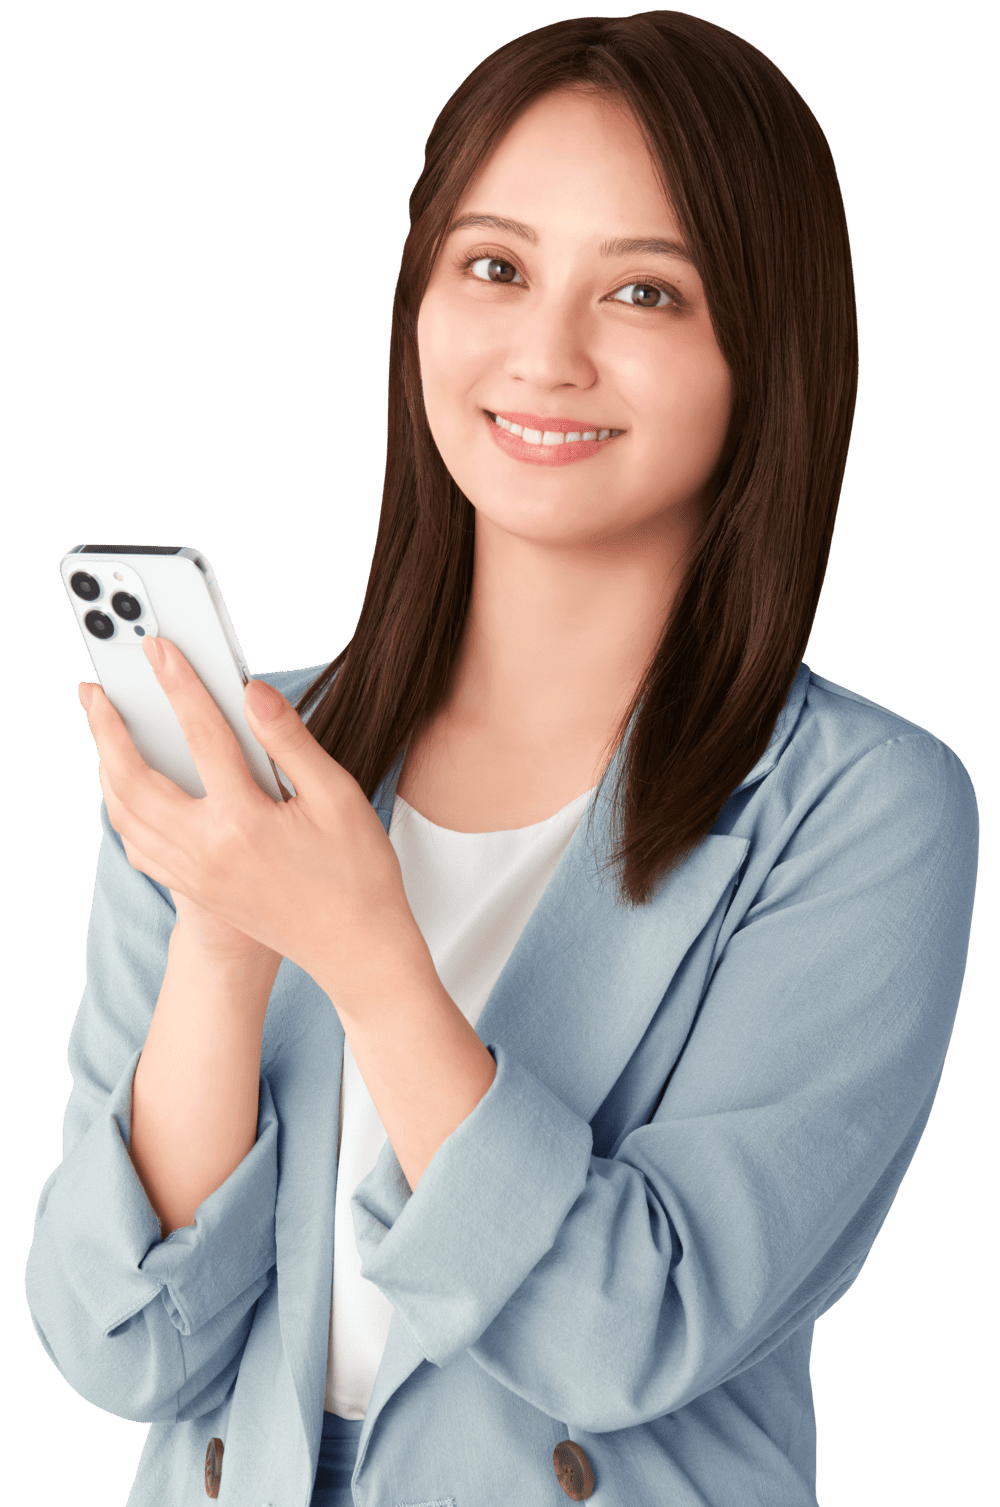
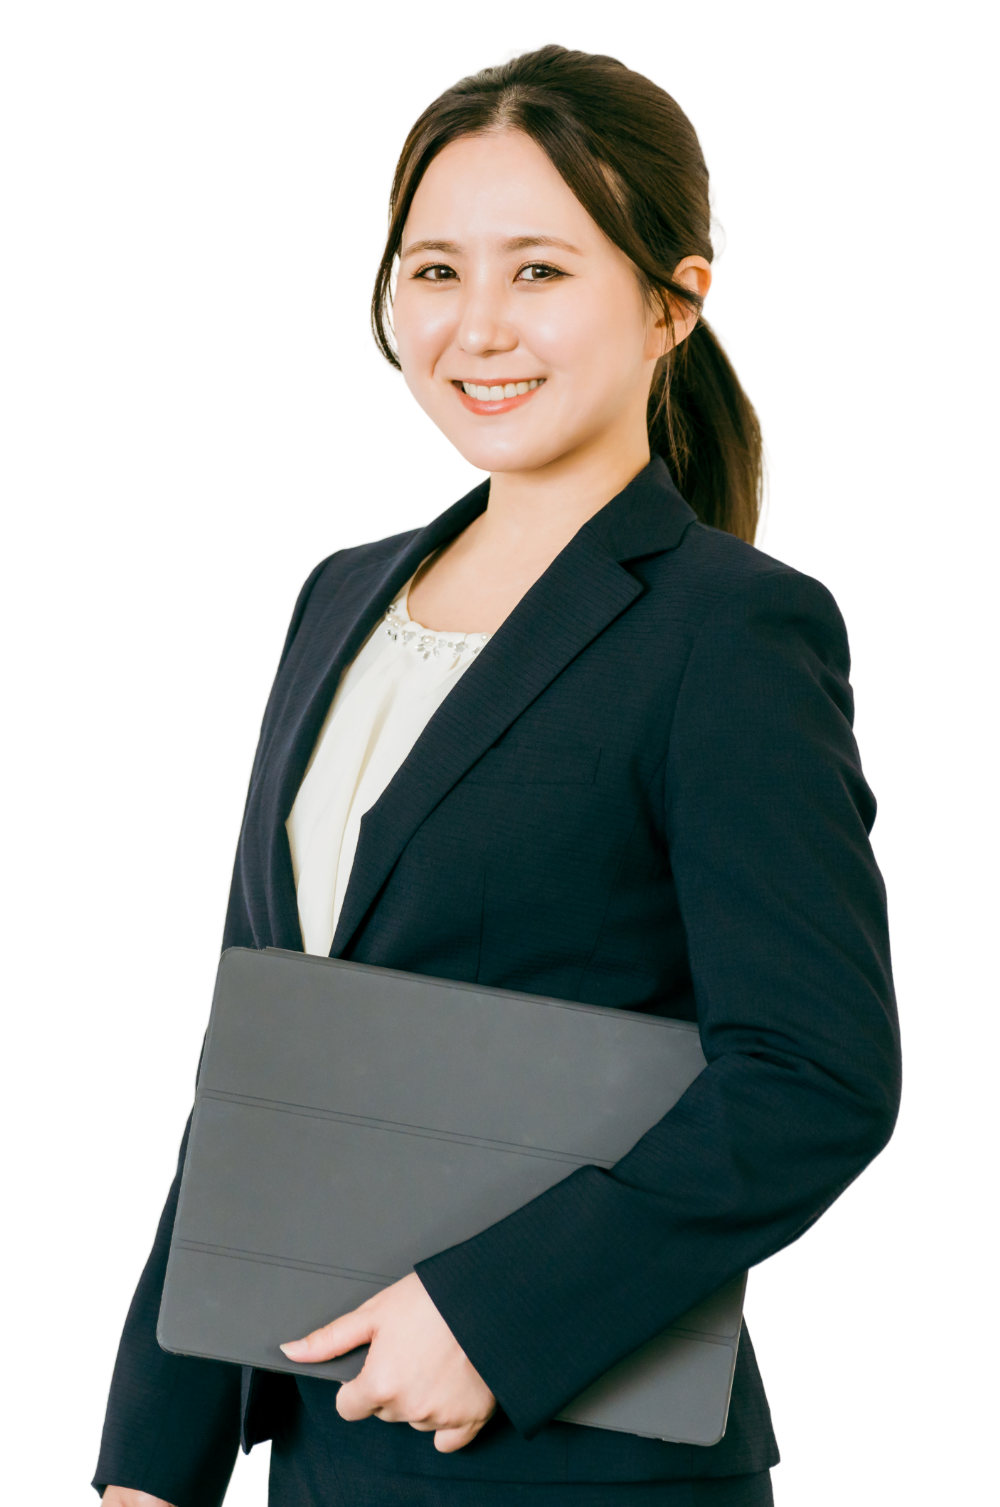
tidy

diff --git a/resources/views/lp-buyer.blade.php b/resources/views/lp-buyer.blade.php
@@ -46,7 +46,7 @@
 
     <div class="hero__visual hero-anim" data-hero-delay="2">
       <img src="/img/lp/fv-okada-yui.png" alt="" class="hero__visual-img" loading="eager">
-      <span class="hero__visual-credit">岡田結実</span>
+      {{-- <span class="hero__visual-credit">岡田結実</span> --}}
     </div>
 
     <div class="hero__copy hero-anim" data-hero-delay="3">
@@ -429,9 +429,7 @@
 
     <div class="solutions-grid solutions-grid--2col">
       <div class="solution-card solution-card--featured anim" data-anim="fade-up">
-        <span class="solution-card__visual" style="background:#e6f4f5; display:flex; align-items:center; justify-content:center;">
-          <span style="font-family:'Inter',sans-serif; font-size:2.2rem; font-weight:900; color:#2bb1b7;">01</span>
-        </span>
+        <span class="solution-card__visual"><img src="/img/lp/for-buyer/01.png" alt="" loading="lazy"></span>
         <span class="solution-card__body">
           <span class="solution-card__head">
             <span class="solution-card__title">個人愛好家がいないので、落札相場が業者向けに収まる</span>
@@ -441,9 +439,7 @@
         </span>
       </div>
       <div class="solution-card solution-card--featured anim" data-anim="fade-up" data-delay="1">
-        <span class="solution-card__visual" style="background:#e6f4f5; display:flex; align-items:center; justify-content:center;">
-          <span style="font-family:'Inter',sans-serif; font-size:2.2rem; font-weight:900; color:#2bb1b7;">02</span>
-        </span>
+        <span class="solution-card__visual"><img src="/img/lp/for-buyer/02.png" alt="" loading="lazy"></span>
         <span class="solution-card__body">
           <span class="solution-card__head">
             <span class="solution-card__title">標準個体も、ヤフオクで買えない卸値で</span>
@@ -453,9 +449,7 @@
         </span>
       </div>
       <div class="solution-card solution-card--featured anim" data-anim="fade-up" data-delay="2">
-        <span class="solution-card__visual" style="background:#e6f4f5; display:flex; align-items:center; justify-content:center;">
-          <span style="font-family:'Inter',sans-serif; font-size:2.2rem; font-weight:900; color:#2bb1b7;">03</span>
-        </span>
+        <span class="solution-card__visual"><img src="/img/lp/for-buyer/03.png" alt="" loading="lazy"></span>
         <span class="solution-card__body">
           <span class="solution-card__head">
             <span class="solution-card__title">取引はすべて、{{ $brand }} とのやり取りだけ</span>
@@ -465,9 +459,7 @@
         </span>
       </div>
       <div class="solution-card solution-card--featured anim" data-anim="fade-up" data-delay="3">
-        <span class="solution-card__visual" style="background:#e6f4f5; display:flex; align-items:center; justify-content:center;">
-          <span style="font-family:'Inter',sans-serif; font-size:2.2rem; font-weight:900; color:#2bb1b7;">04</span>
-        </span>
+        <span class="solution-card__visual"><img src="/img/lp/for-buyer/04.png" alt="" loading="lazy"></span>
         <span class="solution-card__body">
           <span class="solution-card__head">
             <span class="solution-card__title">月2回の定期開催で、計画的に仕入れられる</span>
